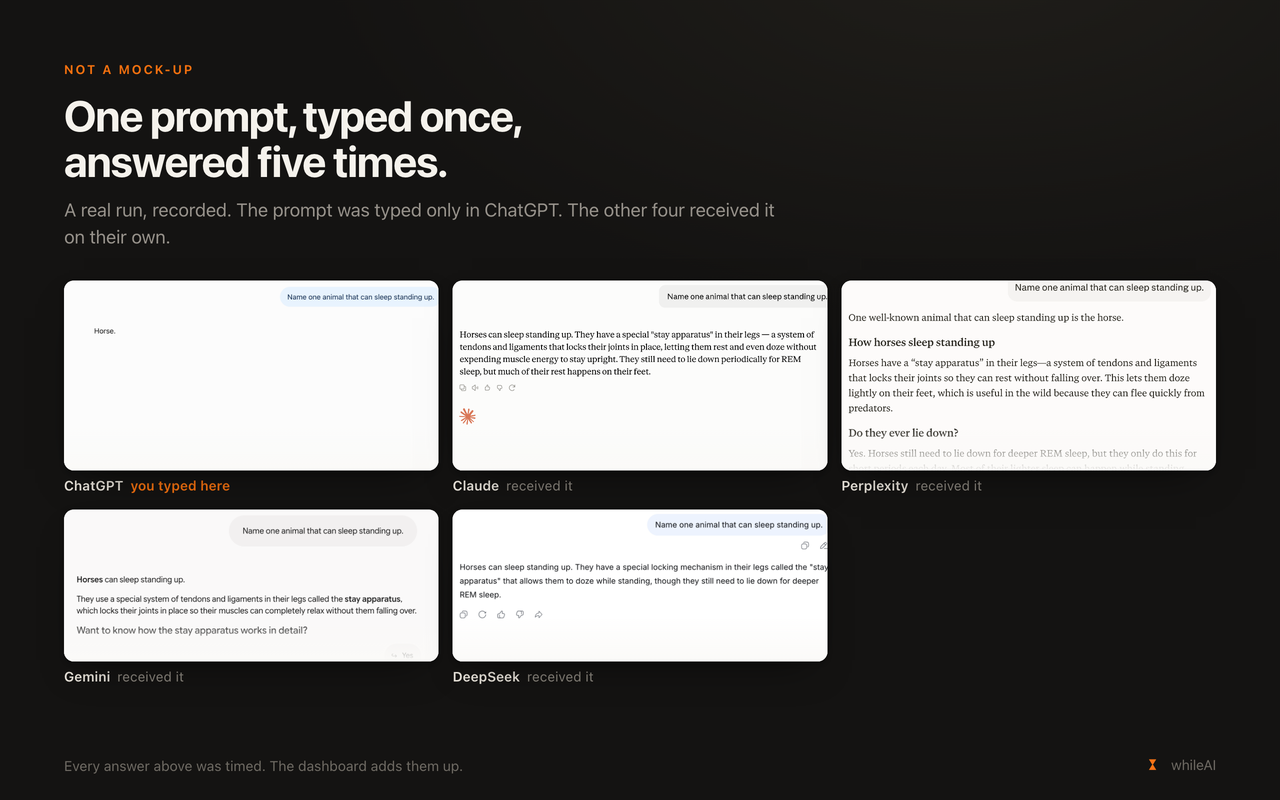
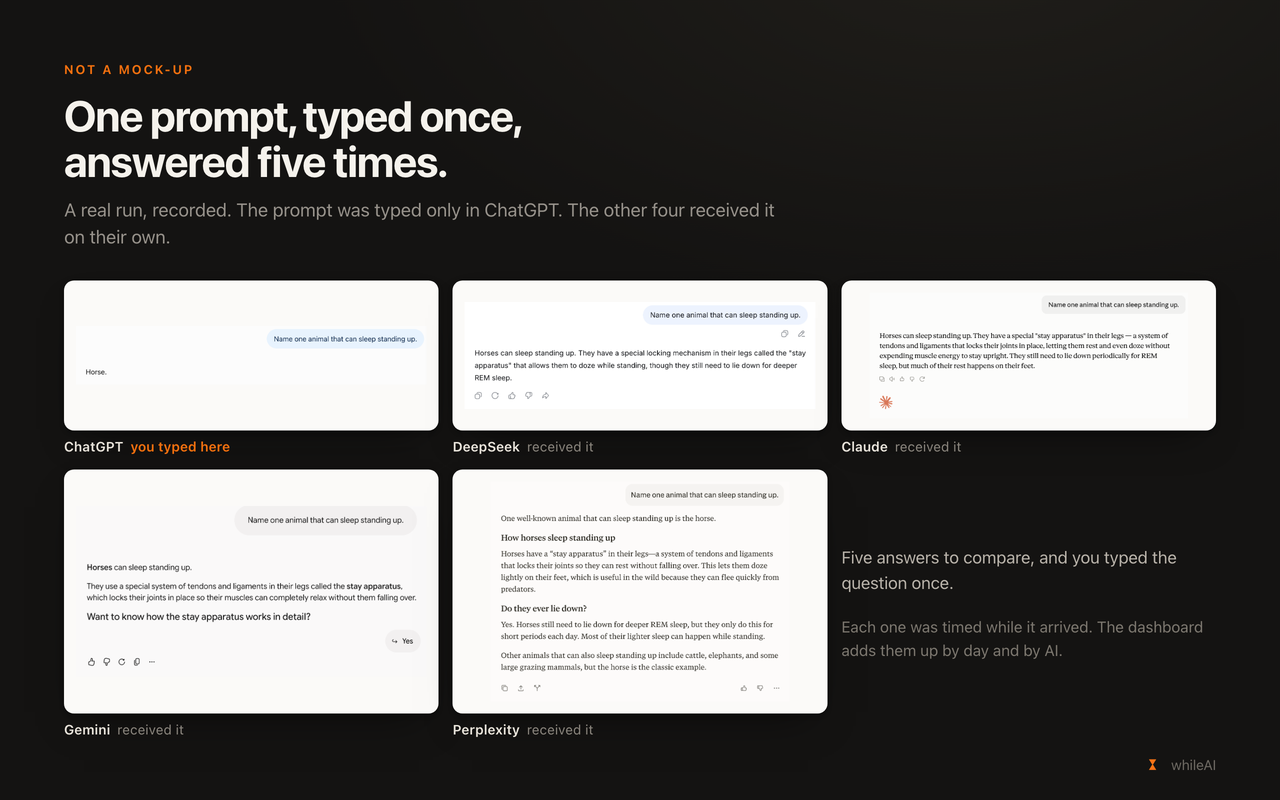
design: show every pane whole, and balance the two frames that were lopsided
Feedback, and it was right on both counts.

The panes were cropped with object-fit: cover, which sliced whatever met the
tile edge: DeepSeek's pencil icon lost half of itself, sentences ended
mid-word. Measuring proved it, the content was touching the frame edge with a
gap of 0 and 1 pixels on two of the five. The crops are now computed from the
content bounding box plus 46px of clear margin on every side, and the tiles
use contain rather than cover, so each pane is shown complete.

That created a second problem worth solving properly rather than papering
over: ChatGPT answered in one word, so its pane is short and wide while
Perplexity's is tall. A uniform grid has to crop one or strand the other, so
the rows now have different heights and the short panes share a row.

The panel frame hung its screenshot off the right edge and left the frame
lopsided. Both columns are now centred on one axis.

diff --git a/scripts/shots/prep.py b/scripts/shots/prep.py
@@ -47,15 +47,17 @@ section(1757, 2075,  'dash-attention.png')
 save(Image.open(os.path.join(ROOT, 'store-assets', 'raw-popup.png')), 'panel.png')
 
 # ---- provider panes: crop to the conversation column ---------------------
-# Measured, not guessed: the conversation column was found by dark-pixel
-# density per column, and the prompt/answer rows by density within it. Each
-# crop is then taken at a fixed aspect so CSS never has to crop again.
+# Measured with padding, not guessed. For each provider the conversation
+# column and the rows between the exchange and the composer are searched for
+# the true content bbox, then 46px of clear margin is added on every side. A
+# tile that clips an icon in half (DeepSeek's pencil, for one) reads as a
+# careless crop, and a store page is the wrong place to look careless.
 PANES = {
-    'chatgpt':    ('010-chatgpt.png',    (420, 100, 2100, 940)),   # 4:3, the big tile
-    'claude':     ('021-claude.png',     (820, 150, 2280, 1062)),   # 16:10
-    'perplexity': ('026-perplexity.png', (520, 200, 1810, 1130)),
-    'gemini':     ('027-gemini.png',     (560, 120, 2100, 1082)),
-    'deepseek':   ('024-deepseek.png',   (760, 170, 2280, 1120)),
+    'chatgpt':     ('010-chatgpt.png',     (520, 114, 2111, 380)),
+    'claude':      ('021-claude.png',      (800, 154, 2324, 757)),
+    'perplexity':  ('026-perplexity.png',  (498, 165, 1817, 1135)),
+    'gemini':      ('027-gemini.png',      (566, 148, 2053, 870)),
+    'deepseek':    ('024-deepseek.png',    (743, 173, 2328, 657)),
 }
 for key, (fname, box) in PANES.items():
     im = Image.open(os.path.join(REC, fname))
